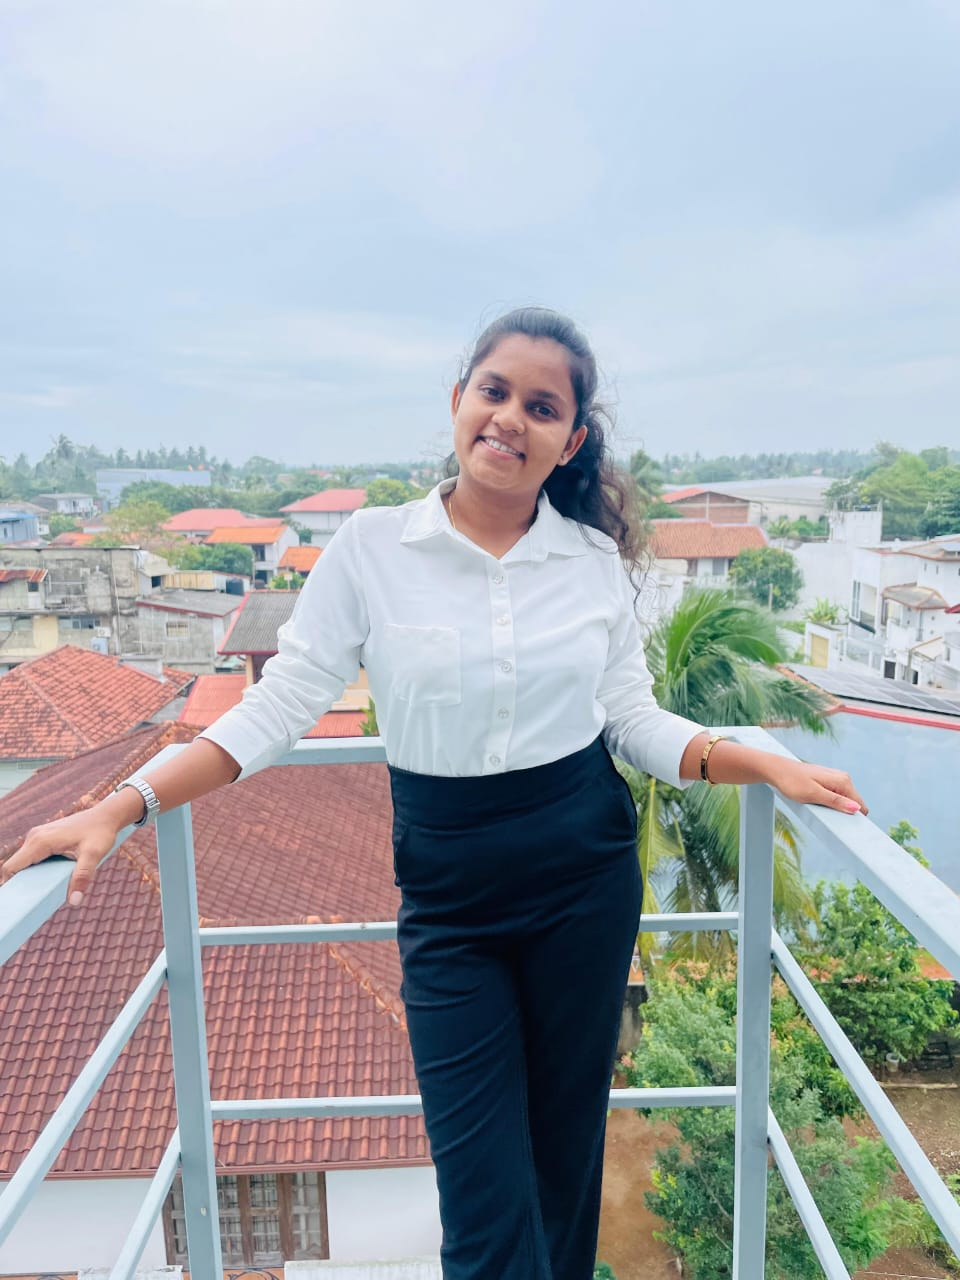
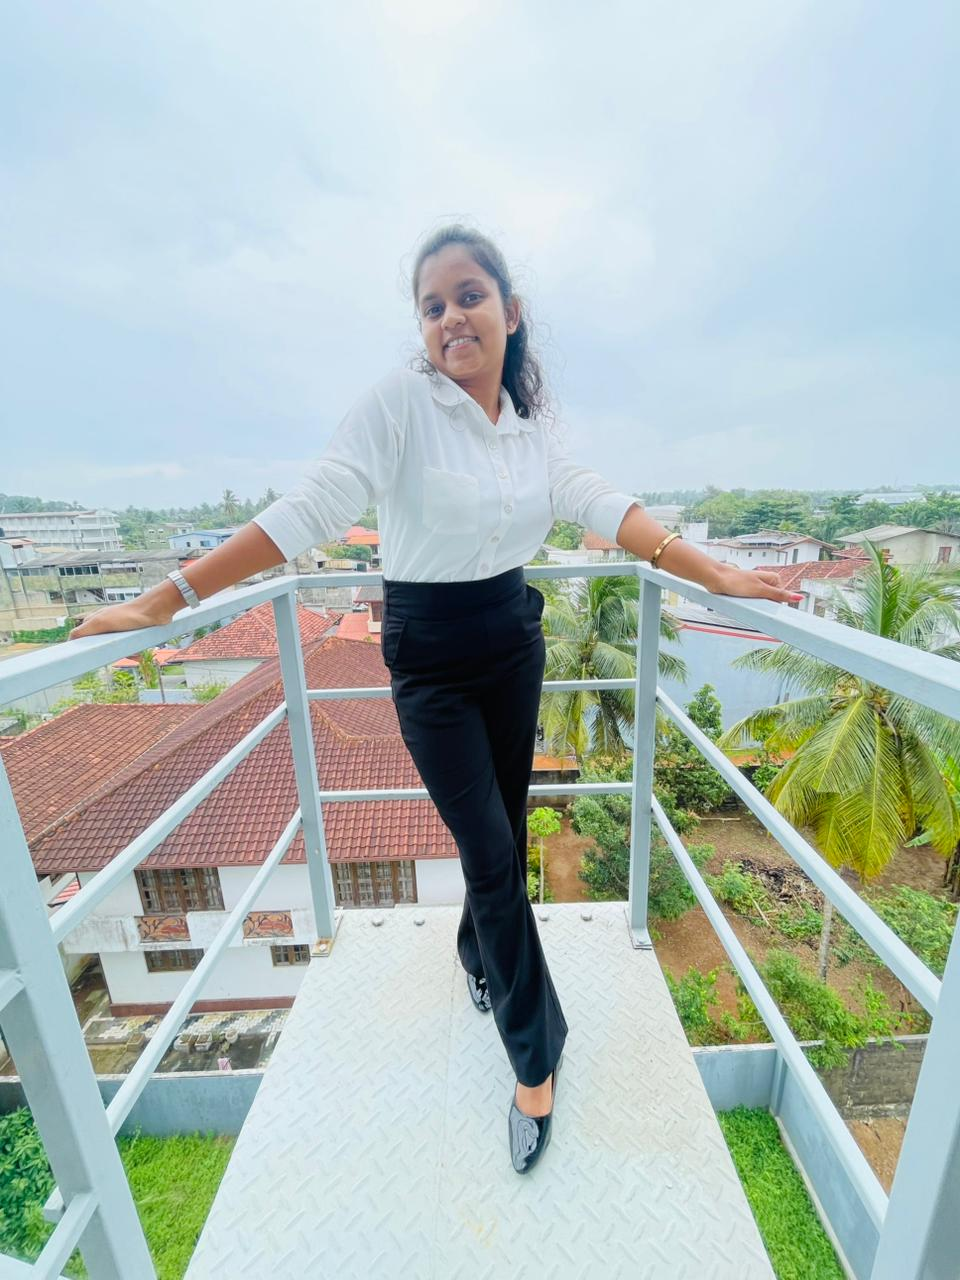
uplod poto

diff --git a/index.html b/index.html
@@ -322,8 +322,8 @@
     <div class="wrapper">
         <div class="items" id="gallery">
             <div class="item" tabindex="0" style="background-image:url(assets/memories.jpeg)"></div>
-            <div class="item" tabindex="0" style="background-image:url(https://picsum.photos/seed/f2/1200/1800)"></div>
-            <div class="item" tabindex="0" style="background-image:url(https://picsum.photos/seed/f3/1200/1800)"></div>
+            <div class="item" tabindex="0" style="background-image:url(assets/memories1.jpeg)"></div>
+            <div class="item" tabindex="0" style="background-image:url(assets/memories2.jpeg)"></div>
             <div class="item" tabindex="0" style="background-image:url(https://picsum.photos/seed/f4/1200/1800)"></div>
             <div class="item" tabindex="0" style="background-image:url(https://picsum.photos/seed/f5/1200/1800)"></div>
             <div class="item" tabindex="0" style="background-image:url(https://picsum.photos/seed/f6/1200/1800)"></div>
